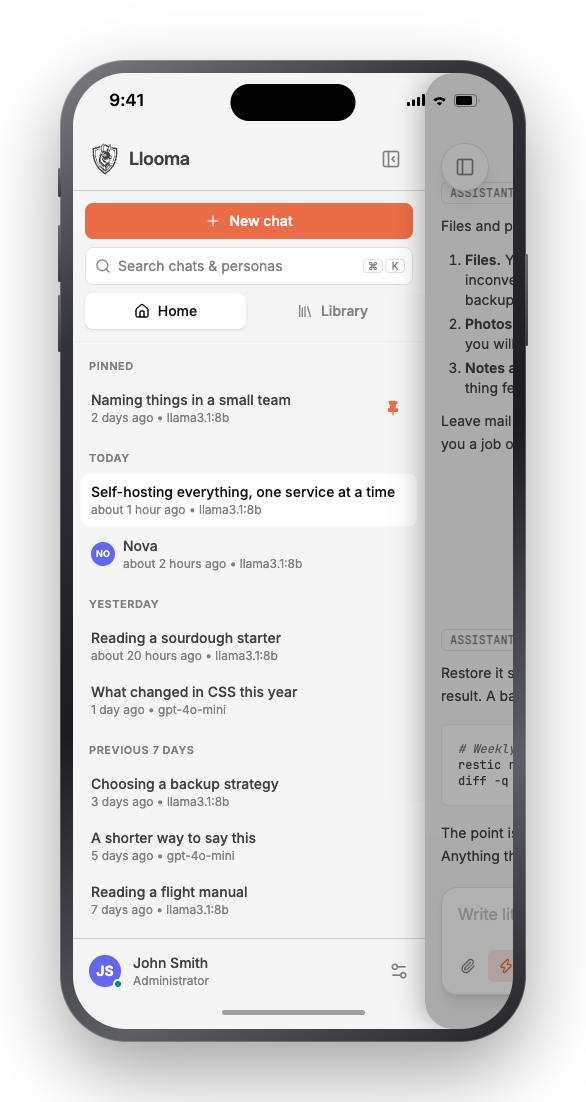
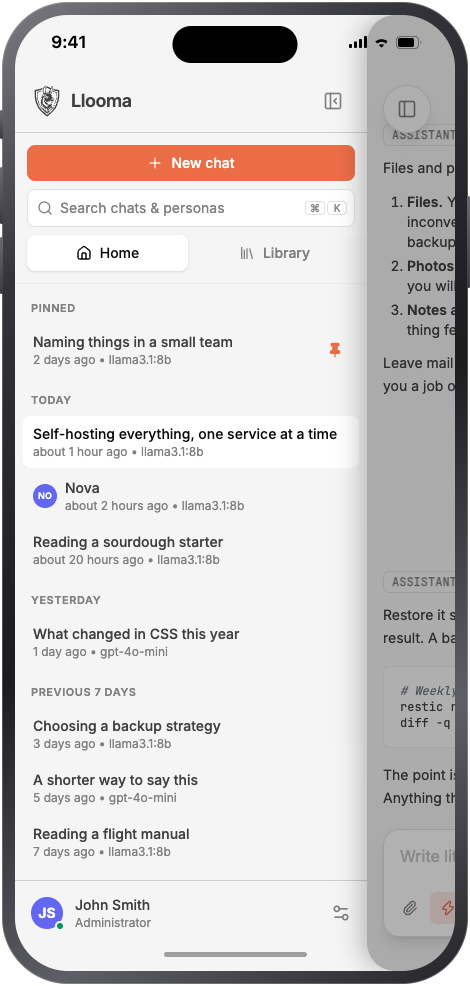
fix(screenshots): write the frames flat and let the page draw the shadow

diff --git a/tests/screenshots.test.ts b/tests/screenshots.test.ts
@@ -425,8 +425,38 @@ async function composeRows(
  */
 const FRAMED_OUT = `${OUT}/framed`;
 
-/** Room around a frame for its shadow to fall into. */
-const PAD = 60;
+/** The frames the documentation site imports. Astro's image pipeline reads its
+    own folder, and a frame copied there by hand is a frame that drifts. */
+const DOCS_FRAMES = new Set([
+	'desktop_conversation',
+	'desktop_library',
+	'desktop_wallpaper',
+	'phone_home'
+]);
+
+const docsCopy = (name: string) => (DOCS_FRAMES.has(name) ? `${DOCS_OUT}/${name}.png` : undefined);
+
+/*
+ * A frame is written with no room around it: the shadow it used to carry is
+ * drawn by whoever displays it now.
+ *
+ * It was baked in, into `PAD` pixels of margin, and a 64px blur does not fit in
+ * 60 of them: every file ended while its shadow was still at 8% black, which is
+ * a hard line along the bottom edge of all thirteen. The documentation site puts
+ * the shadow back in CSS, where it can fade out properly; the README shows the
+ * frames flat, which on GitHub's plain background is no loss.
+ *
+ * The hero is the exception, since a phone leaning on a window has to cast onto
+ * it to read as leaning. It keeps its shadows, and the room they need.
+ */
+const PAD = 0;
+
+/** The hero's shadows are deep, and they fall inside the file. */
+const HERO_PAD = 160;
+
+/** The side buttons sit on the chassis edge and stand 2px off it, so a phone
+    written with no margin at all would have them shaved off. */
+const BUTTON = 2;
 
 /** The Mac window's title bar: tall enough for three lights and nothing else. */
 const TITLE_BAR = 30;
@@ -509,7 +539,9 @@ const FRAME_CSS = `
 		border-radius: 11px;
 		overflow: hidden;
 		background: var(--bar);
-		box-shadow: 0 2px 5px rgba(0, 0, 0, .16), 0 26px 64px rgba(0, 0, 0, .3), 0 0 0 1px var(--ring);
+		/* The ring is the chassis; the drop is the composite's business, and off by
+		   default. Transparent rather than none, which cannot sit in a list. */
+		box-shadow: var(--drop, 0 0 0 rgba(0, 0, 0, 0)), 0 0 0 1px var(--ring);
 		transform-origin: top left;
 	}
 	.window .bar {
@@ -536,7 +568,7 @@ const FRAME_CSS = `
 		box-sizing: border-box;
 		border-radius: var(--corner);
 		background: linear-gradient(145deg, #7c7c82 0%, #33333a 22%, #1c1c1f 52%, #5e5e66 78%, #232327 100%);
-		box-shadow: inset 0 0 0 1px rgba(255, 255, 255, .22), 0 30px 70px rgba(0, 0, 0, .35);
+		box-shadow: inset 0 0 0 1px rgba(255, 255, 255, .22), var(--drop, 0 0 0 rgba(0, 0, 0, 0));
 		transform-origin: top left;
 	}
 	.phone .screen {
@@ -632,7 +664,7 @@ function chassis(screenW: number, screenH: number, shotH: number, bezel: number,
 }
 
 /** The bars sit above and below the shot: the app is captured with a nought safe area, so an island on top would cover its header. */
-function phoneHtml(src: string, e: Edges, place = `top:${PAD}px;left:${PAD}px`) {
+function phoneHtml(src: string, e: Edges, place = `top:${PAD + BUTTON}px;left:${PAD + BUTTON}px`) {
 	const ink = e.darkTop ? '#fff' : '#000';
 	const inkHome = e.darkBottom ? 'rgba(255,255,255,.45)' : 'rgba(0,0,0,.35)';
 
@@ -712,7 +744,8 @@ async function frameWindow(page: Page, name: string) {
 		width: WINDOW_SIZE.width + PAD * 2,
 		height: WINDOW_SIZE.height + PAD * 2,
 		body: windowHtml(src, e),
-		out: `${FRAMED_OUT}/${name}.png`
+		out: `${FRAMED_OUT}/${name}.png`,
+		alsoOut: docsCopy(name)
 	});
 }
 
@@ -722,10 +755,11 @@ async function framePhone(page: Page, name: string) {
 	const e = await edges(page, src);
 
 	await draw(page, {
-		width: PHONE_SIZE.width + PAD * 2,
-		height: PHONE_SIZE.height + PAD * 2,
+		width: PHONE_SIZE.width + (PAD + BUTTON) * 2,
+		height: PHONE_SIZE.height + (PAD + BUTTON) * 2,
 		body: phoneHtml(src, e),
-		out: `${FRAMED_OUT}/${name}.png`
+		out: `${FRAMED_OUT}/${name}.png`,
+		alsoOut: docsCopy(name)
 	});
 }
 
@@ -754,20 +788,25 @@ async function composeHero(page: Page) {
 
 	const phoneWidth = PHONE_SIZE.width * HERO.scale;
 	const phoneHeight = PHONE_SIZE.height * HERO.scale;
-	const phoneLeft = PAD + WINDOW_SIZE.width + HERO.overhangX - phoneWidth;
-	const phoneTop = PAD + WINDOW_SIZE.height + HERO.overhangY - phoneHeight;
+	const phoneLeft = HERO_PAD + WINDOW_SIZE.width + HERO.overhangX - phoneWidth;
+	const phoneTop = HERO_PAD + WINDOW_SIZE.height + HERO.overhangY - phoneHeight;
 
 	await draw(page, {
-		width: WINDOW_SIZE.width + HERO.overhangX + PAD * 2,
-		height: WINDOW_SIZE.height + HERO.overhangY + PAD * 2,
+		width: WINDOW_SIZE.width + HERO.overhangX + HERO_PAD * 2,
+		height: WINDOW_SIZE.height + HERO.overhangY + HERO_PAD * 2,
 		body:
-			windowHtml(windowSrc, windowEdges) +
+			windowHtml(
+				windowSrc,
+				windowEdges,
+				`top:${HERO_PAD}px;left:${HERO_PAD}px;` +
+					`--drop:0 2px 5px rgba(0,0,0,.16), 0 26px 64px rgba(0,0,0,.3)`
+			) +
 			phoneHtml(
 				phoneSrc,
 				phoneEdges,
-				// Darker and wider than the frame's own shadow, or the two look pasted.
+				// Darker and wider than the window's, or the two look pasted.
 				`top:${phoneTop}px;left:${phoneLeft}px;transform:scale(${HERO.scale});` +
-					`box-shadow:inset 0 0 0 1px rgba(255,255,255,.22), 0 40px 90px rgba(0,0,0,.45)`
+					`--drop:0 40px 90px rgba(0,0,0,.45)`
 			),
 		out: `${OUT}/hero.png`,
 		// Astro's image pipeline reads from its own folder rather than from `static/`.

diff --git a/docs/src/styles/custom.css b/docs/src/styles/custom.css
@@ -239,21 +239,21 @@
 }
 
 /*
- * A screenshot: a rounded window on a transparent ground, cropped in `docs/` to
- * the window itself, with its shadow drawn here.
+ * A screenshot: a rounded window on a transparent ground, edge to edge, with its
+ * shadow drawn here.
  *
- * `tests/screenshots.test.ts` frames the captures and paints the shadow into the
- * file, in 60px of margin (`PAD`). A 64px blur does not fit in 60px, so the file
- * ends while the shadow is still at 8% black: a hard line along the bottom edge,
- * which is the square that would not go away. Cropping that margin off and using
- * `drop-shadow` puts the same shadow back, following the alpha and fading out.
- * `box-shadow` cannot: on a rounded shape over transparency it draws around the
- * element's rectangle rather than under the window.
+ * `tests/screenshots.test.ts` used to paint the shadow into the file, in 60px of
+ * margin. A 64px blur does not fit in 60px, so every frame ended while its shadow
+ * was still at 8% black: a hard line along the bottom edge, on the README as much
+ * as here, and no CSS reaches the README. The generator writes them flat now, and
+ * the shadow is CSS wherever there is CSS to have.
  *
- * The values below are the generator's own, so the picture is unchanged. The
- * widths are too: the crop took 60px off each side of a 1560px asset, so a
- * window at 92.31% of the figure occupies exactly what it did before, and the
- * page does not move.
+ * `drop-shadow` rather than `box-shadow`, which on a rounded shape over
+ * transparency draws around the element's rectangle instead of under the window.
+ * The values are the generator's own, so the picture is the one it always was,
+ * and the widths hold the old footprint: the frames lost 60px a side off a 1560px
+ * asset, so a window at 92.31% of the figure sits exactly where it sat, with the
+ * room the shadow needs.
  */
 .shot {
 	position: relative;
